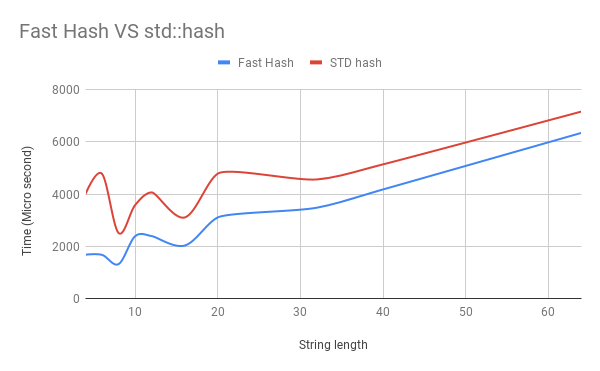
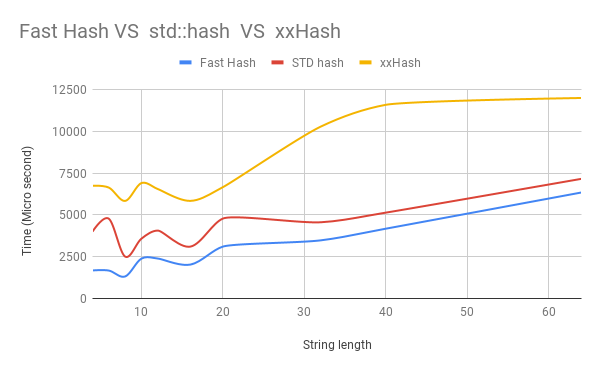
Adding xxhash to the benchmark list Adding locks documentation

diff --git a/include/utils/SpinLock.hpp b/include/utils/SpinLock.hpp
@@ -1,23 +1,24 @@
 #pragma once
 
-#include <immintrin.h>
 #include <atomic>
 #include <cstdint>
+#include <immintrin.h>
 namespace libzrvan {
 namespace utils {
 
 /**
- * @brief Simple spinlock implementation using std::atomic. in low contention situations this lock act as a simple spinlock but in highly contention
- * systems it acts as a sleeping mutex . When it is acting as a sleeping mutex the performance is highly dependent to the OS scheduling algorithm and timer
+ * @brief Simple spinlock implementation using std::atomic. in low contention
+ * situations this lock act as a simple spinlock but in highly contention
+ * systems it acts as a sleeping mutex. When it is acting as a sleeping mutex
+ * the performance is highly dependent on the OS scheduling algorithm and timer
  *
  * @tparam MaxLoopBeforeSleep
  */
-template <uint32_t MaxLoopBeforeSleep = 10>
-class SpinLock {
- private:
+template <uint32_t MaxLoopBeforeSleep = 10> class SpinLock {
+private:
   std::atomic<bool> lock_ = {false};
   //-------------------------------------------------------------------------------------
-  inline void pause(uint32_t& counter) {
+  inline void pause(uint32_t &counter) {
     _mm_pause();
     if (MaxLoopBeforeSleep && ++counter > MaxLoopBeforeSleep) {
       timespec t;
@@ -29,7 +30,7 @@ class SpinLock {
     }
   }
   //-------------------------------------------------------------------------------------
- public:
+public:
   /**
    * @brief lock the spinlock
    *
@@ -73,6 +74,6 @@ class SpinLock {
    */
   bool locked() { return lock_.load(std::memory_order_relaxed); }
 
-};  // namespace utils
-}  // namespace utils
-}  // namespace libzrvan
+}; // namespace utils
+} // namespace utils
+} // namespace libzrvan

diff --git a/test/unittest/utils/FastHash.hpp b/test/unittest/utils/FastHash.hpp
@@ -6,6 +6,7 @@
 #include <string>
 #include <unordered_set>
 #include <vector>
+#include <xxhash.h>
 //---------------------------------------------------------------------------------------
 
 template <class HASH> void testWithHash(const std::string &input) {
@@ -43,13 +44,25 @@ template <class HASH> void testAllStrings() {
     testWithHash<HASH>(a);
   }
 }
-
 //---------------------------------------------------------------------------------------
-TEST(utils, fasthash_test_performance64) {
+//xxx hash wraper
+class XxxHashWraper {
+  public:
+    size_t operator()(const std::string& in){
+      XXH64_hash_t hash = XXH64(in.data(), in.size(), 0xcbf29ce484222325);
+      return static_cast<size_t>(hash); 
+    }
+};
+//---------------------------------------------------------------------------------------
+TEST(utils, hash_xxx_test_performance64) {
+  testAllStrings<XxxHashWraper>();
+}
+//---------------------------------------------------------------------------------------
+TEST(utils, hash_fasthash_test_performance64) {
   testAllStrings<libzrvan::utils::FastHash<std::string>>();
 }
 //---------------------------------------------------------------------------------------
-TEST(utils, stdhash_test_performance) {
+TEST(utils, hash_stdhash_test_performance) {
   testAllStrings<std::hash<std::string>>();
 }
 //---------------------------------------------------------------------------------------

diff --git a/README.md b/README.md
@@ -2,7 +2,10 @@
 Libzervan is a set of header-only c++ POC components developed and customized for high-performance, high-throughput computing. 
 
 ## Dependency
-There is no particular dependency for using this library (except std c++). for building and running the tests, you need google-test library (gtest) and Cmake
+There is no particular dependency for using this library (except std c++). but for building and running the tests, you need the following tools and libraries:
+- Cmake
+- gtest ( https://github.com/google/googletest )
+- xxHash ( https://github.com/Cyan4973/xxHash )
 
 ## Operation system and CPU
 
@@ -28,7 +31,9 @@ Implementation of core hash algorithm. used to decrease the collision chance in 
 	
     libzrvan::utils::FastHash
 
-Implementation of the Fast hash algorithm. It could be used as a replacement for the std::hash function. In most implementations, std::hash uses MurmurHash. Fast hash is a competitor algorithm that pos better performance in some situations. please note that for std based data structures, using this hash algorithm is not recommended.
+Implementation of the Fast hash algorithm. It could be used as a replacement for the std::hash function. In most implementations, std::hash uses MurmurHash. Fast hash is a competitor algorithm that pos better performance especially in short strings (between 2-128 characters). please note that for std based data structures, using this hash algorithm is not recommended.
+
+The following chart compares the performance of fast hash against std::hash and xxHash (https://github.com/Cyan4973/xxHash). Although fast-hash poses better performance, its distribution factor is less than two other hash functions. Anyway it is enough for most situations. 
 
 ![alt text](https://github.com/mohsenatigh/libzrvan/blob/main/charts/FastHash.png)
 
@@ -36,8 +41,8 @@ Implementation of the Fast hash algorithm. It could be used as a replacement for
 
     libzrvan::utils::Counter
 
-Atomic variables are typically used for collecting and tracking metrics and statistics. Using this technique may cause many unnecessary CPU usages and CPU cache miss in a high throughput multithreaded system.
-Operation systems usually use per CPU counters for tracking these types of metrics  (for example, NIC TX RX). The counter class is a simple implementation of the per-thread counter. It is a suitable mechanism for counters that update frequently but read rarely. In exchange for highly optimized write performance, It uses a lot more memory and have a slow read operation.
+Atomic variables are typically used for collecting and tracking metrics and statistics. Using this technique may cause unnecessary CPU usages and CPU cache miss in a high throughput multithreaded system.
+Operation systems usually use per CPU counters for tracking these types of metrics  (for example, NIC TX RX). The counter class is a simple implementation of the per-thread counter. It is a suitable mechanism for counters that update frequently but read rarely. In exchange for highly optimized write performance, It uses a lot more memory and has a slow read operation.
 
 The following graph compares the performance of per-thread counters with atomic variables. for more details, please check the related unit test     
 
@@ -47,3 +52,8 @@ The following graph compares the performance of per-thread counters with atomic 
 
     libzrvan::utils::SpinLock
 
+Simple spinlock implementation using std::atomic. in low contention situations this lock act as a simple spinlock but in highly contention systems it acts as a sleeping mutex. When it is acting as a sleeping mutex the performance is highly dependent on the OS scheduling algorithm and timer
+
+The following chart compares the performance of the common synchronization mechanism used in Linux with libzrvan::utils::SpinLock
+
+![alt text](https://github.com/mohsenatigh/libzrvan/blob/main/charts/Lock.png)
